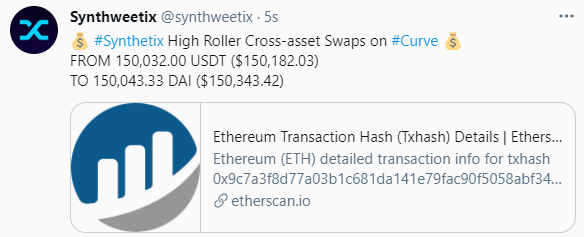
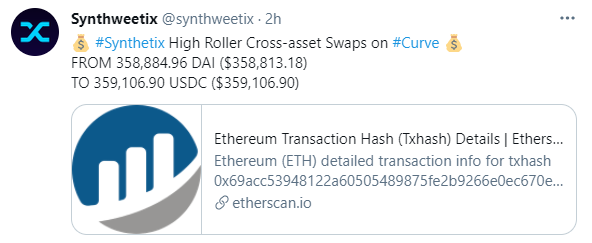
Verify swap is actual Cross-Asset Swap with Vyper Contract

diff --git a/bot.py b/bot.py
@@ -1,3 +1,5 @@
+import json
+
 import cryptocompare
 from datetime import datetime
 from enum import Enum
@@ -6,20 +8,22 @@ from gql.transport.requests import RequestsHTTPTransport
 import logging
 from pycoingecko import CoinGeckoAPI
 from random import randint
-from requests import RequestException
+import requests
 import time
 from tweepy import API, OAuthHandler, TweepError
 
 __author__ = 'Pieter Moens'
 __email__ = "pieter@pietermoens.be"
 
-
 # Emojis: https://apps.timwhitlock.info/emoji/tables/unicode
 
-
+# TheGraph endpoints
 EXCHANGE_SUBGRAPH_API_ENDPOINT = 'https://api.thegraph.com/subgraphs/name/synthetixio-team/synthetix-exchanges'
 CURVE_SUBGRAPH_API_ENDPOINT = 'https://api.thegraph.com/subgraphs/name/blocklytics/curve'
 SHORTS_SUBGRAPH_API_ENDPOINT = 'https://api.thegraph.com/subgraphs/name/synthetixio-team/synthetix-shorts'
+
+# EtherScan Vyper Contract
+ETHERSCAN_VYPER_CONTRACT = '0x58A3c68e2D3aAf316239c003779F71aCb870Ee47'
 
 EYE_CATCHERS = [
     '\U0001F6A8 Alert: A Whale has been spotted in the trading waters!',
@@ -36,11 +40,14 @@ class ExchangeType(Enum):
 
 class SynthweetixBot:
 
-    def __init__(self, key, secret, access_token, access_secret,
-                 trade_value_threshold=250000, eye_catcher_threshold=1000000, debug=False):
+    def __init__(self, key, secret, access_token, access_secret, etherscan_api_key,
+                 trade_value_threshold=250000, eye_catcher_threshold=1000000,
+                 debug=False):
         auth = OAuthHandler(key, secret)
         auth.set_access_token(access_token, access_secret)
         self.api = API(auth)
+
+        self.etherscan_api_key = etherscan_api_key
 
         # Trades
         transport = RequestsHTTPTransport(
@@ -106,6 +113,16 @@ class SynthweetixBot:
         )
         result = self.gql_client_synthetix_exchanges.execute(query)
         return result.get('synthExchanges')
+
+    def fetch_vyper_transactions(self):
+        start_block = int(json.loads(requests.get(
+            f'https://api.etherscan.io/api?module=block&action=getblocknobytime&timestamp={self.timestamp_last_fetch}&closest=after&apikey={self.etherscan_api_key}'
+        ).text)['result'])
+
+        txs = json.loads(requests.get(
+            f'https://api.etherscan.io/api?module=account&action=txlist&address={ETHERSCAN_VYPER_CONTRACT}&startblock={start_block}&sort=asc&apikey={self.etherscan_api_key}'
+        ).text)['result']
+        return txs
 
     def fetch_curve_swaps(self):
         query = gql(
@@ -231,8 +248,10 @@ class SynthweetixBot:
                 r = randint(0, 2)
                 message.append(EYE_CATCHERS[r])
             message.extend([
-                'SYNTH BORROWED {:,.2f} {} (${:,.2f})'.format(synth_borrowed_amount, synth_borrowed, synth_borrowed_amount_usd),
-                'COLLATERAL LOCKED {:,.2f} {} (${:,.2f})'.format(collateral_locked_amount, collateral_locked, collateral_locked_amount_usd),
+                'SYNTH BORROWED {:,.2f} {} (${:,.2f})'.format(synth_borrowed_amount, synth_borrowed,
+                                                              synth_borrowed_amount_usd),
+                'COLLATERAL LOCKED {:,.2f} {} (${:,.2f})'.format(collateral_locked_amount, collateral_locked,
+                                                                 collateral_locked_amount_usd),
                 'https://etherscan.io/tx/{}'.format(tx_hash),
             ])
 
@@ -258,23 +277,26 @@ class SynthweetixBot:
             swaps = self.fetch_curve_swaps()
             whales = []
 
+            txs = self.fetch_vyper_transactions()
+
             for swap in swaps:
-                from_token = swap.get('fromToken').get('symbol')
-                if from_token not in prices.keys():
-                    prices[from_token] = cryptocompare.get_price(from_token, currency='usd')\
-                        .get(from_token.upper()).get('USD')
+                if swap.get('transaction').get('hash') in txs:  # Check if swap is an actual Cross-Asset Swap
+                    from_token = swap.get('fromToken').get('symbol')
+                    if from_token not in prices.keys():
+                        prices[from_token] = cryptocompare.get_price(from_token, currency='usd') \
+                            .get(from_token.upper()).get('USD')
 
-                to_token = swap.get('toToken').get('symbol')
-                if to_token not in prices.keys():
-                    prices[to_token] = cryptocompare.get_price(to_token, currency='usd')\
-                        .get(to_token.upper()).get('USD')
+                    to_token = swap.get('toToken').get('symbol')
+                    if to_token not in prices.keys():
+                        prices[to_token] = cryptocompare.get_price(to_token, currency='usd') \
+                            .get(to_token.upper()).get('USD')
 
-                from_token_amount_usd = float(swap.get('fromTokenAmountDecimal')) * prices.get(from_token)
-                to_token_amount_usd = float(swap.get('toTokenAmountDecimal')) * prices.get(to_token)
-                if to_token_amount_usd >= self.trade_value_threshold:
-                    swap['fromTokenAmountUSD'] = from_token_amount_usd
-                    swap['toTokenAmountUSD'] = to_token_amount_usd
-                    whales.append(swap)
+                    from_token_amount_usd = float(swap.get('fromTokenAmountDecimal')) * prices.get(from_token)
+                    to_token_amount_usd = float(swap.get('toTokenAmountDecimal')) * prices.get(to_token)
+                    if to_token_amount_usd >= self.trade_value_threshold:
+                        swap['fromTokenAmountUSD'] = from_token_amount_usd
+                        swap['toTokenAmountUSD'] = to_token_amount_usd
+                        whales.append(swap)
 
             logging.info('Sending tweets for cross-asset swaps')
             self.create_swaps_tweets(whales)
@@ -287,12 +309,12 @@ class SynthweetixBot:
             for short in shorts:
                 synth_token = bytes.fromhex(short.get('synthBorrowed')[2:10]).decode('utf-8')
                 if synth_token not in prices.keys():
-                    prices[synth_token] = self.cg.get_price(ids=synth_token, vs_currencies='usd')\
+                    prices[synth_token] = self.cg.get_price(ids=synth_token, vs_currencies='usd') \
                         .get(synth_token.lower()).get('usd')
 
                 collateral_token = bytes.fromhex(short.get('collateralLocked')[2:10]).decode('utf-8')
                 if collateral_token not in prices.keys():
-                    prices[collateral_token] = cryptocompare.get_price(collateral_token, currency='usd')\
+                    prices[collateral_token] = cryptocompare.get_price(collateral_token, currency='usd') \
                         .get(collateral_token.upper()).get('USD')
 
                 synth_borrowed_amount = float(short.get('synthBorrowedAmount')) / 1e18
@@ -315,7 +337,7 @@ class SynthweetixBot:
             self.create_shorts_tweets(whales)
 
             self.timestamp_last_fetch = int(time.time())
-        except RequestException as e:
+        except requests.RequestException as e:
             logging.error(e)
 
         end = datetime.now()

diff --git a/config.py b/config.py
@@ -14,6 +14,8 @@ class BaseConfig:
     TWITTER_ACCESS_TOKEN = os.getenv('TWITTER_ACCESS_TOKEN', default='')
     TWITTER_ACCESS_SECRET = os.getenv('TWITTER_ACCESS_SECRET', default='')
 
+    ETHERSCAN_API_KEY = os.getenv('ETHERSCAN_API_KEY', default='')
+
     TRADE_VALUE_THRESHOLD = int(os.getenv('TRADE_VALUE_THRESHOLD', default=250000))
     EYE_CATCHER_THRESHOLD = int(os.getenv('EYECATCHER_VALUE_THRESHOLD', default=1000000))
 
